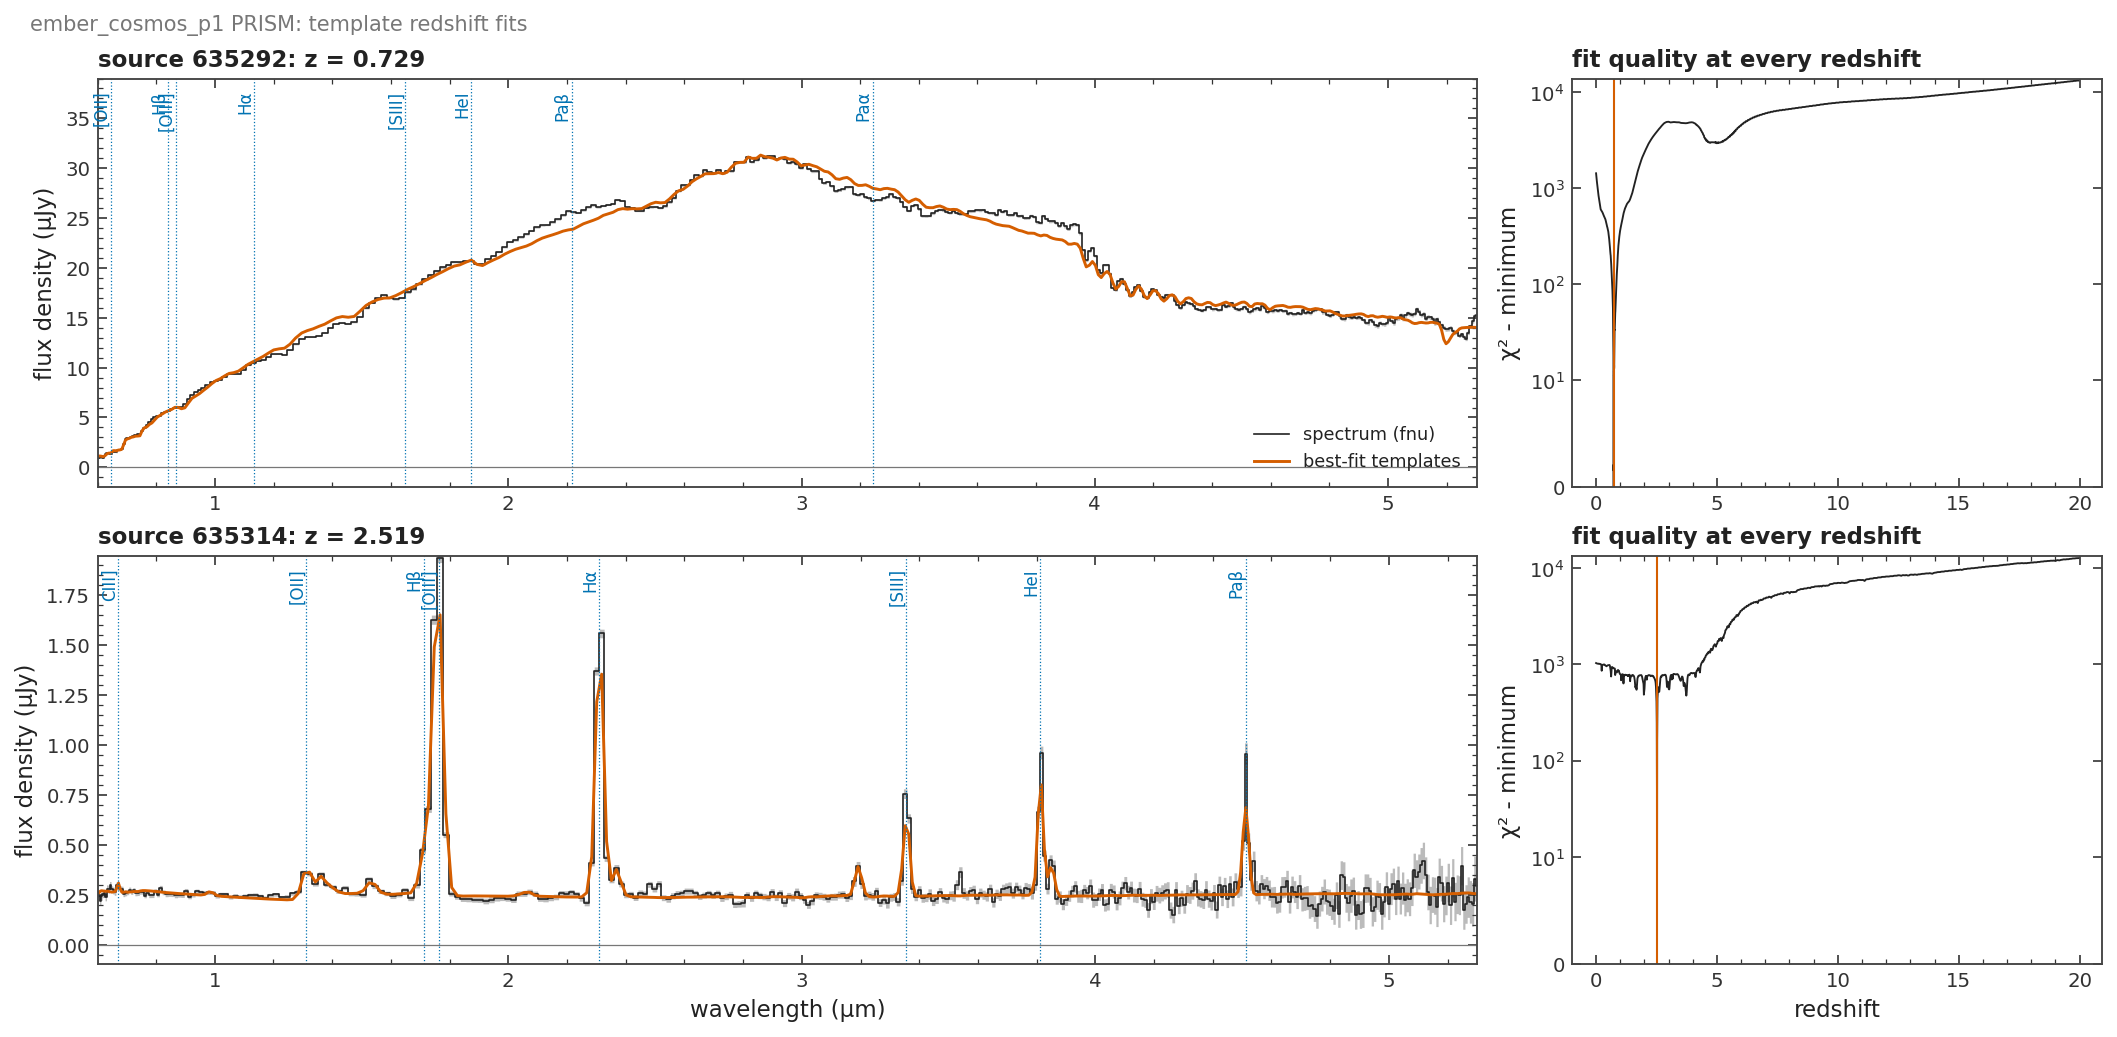
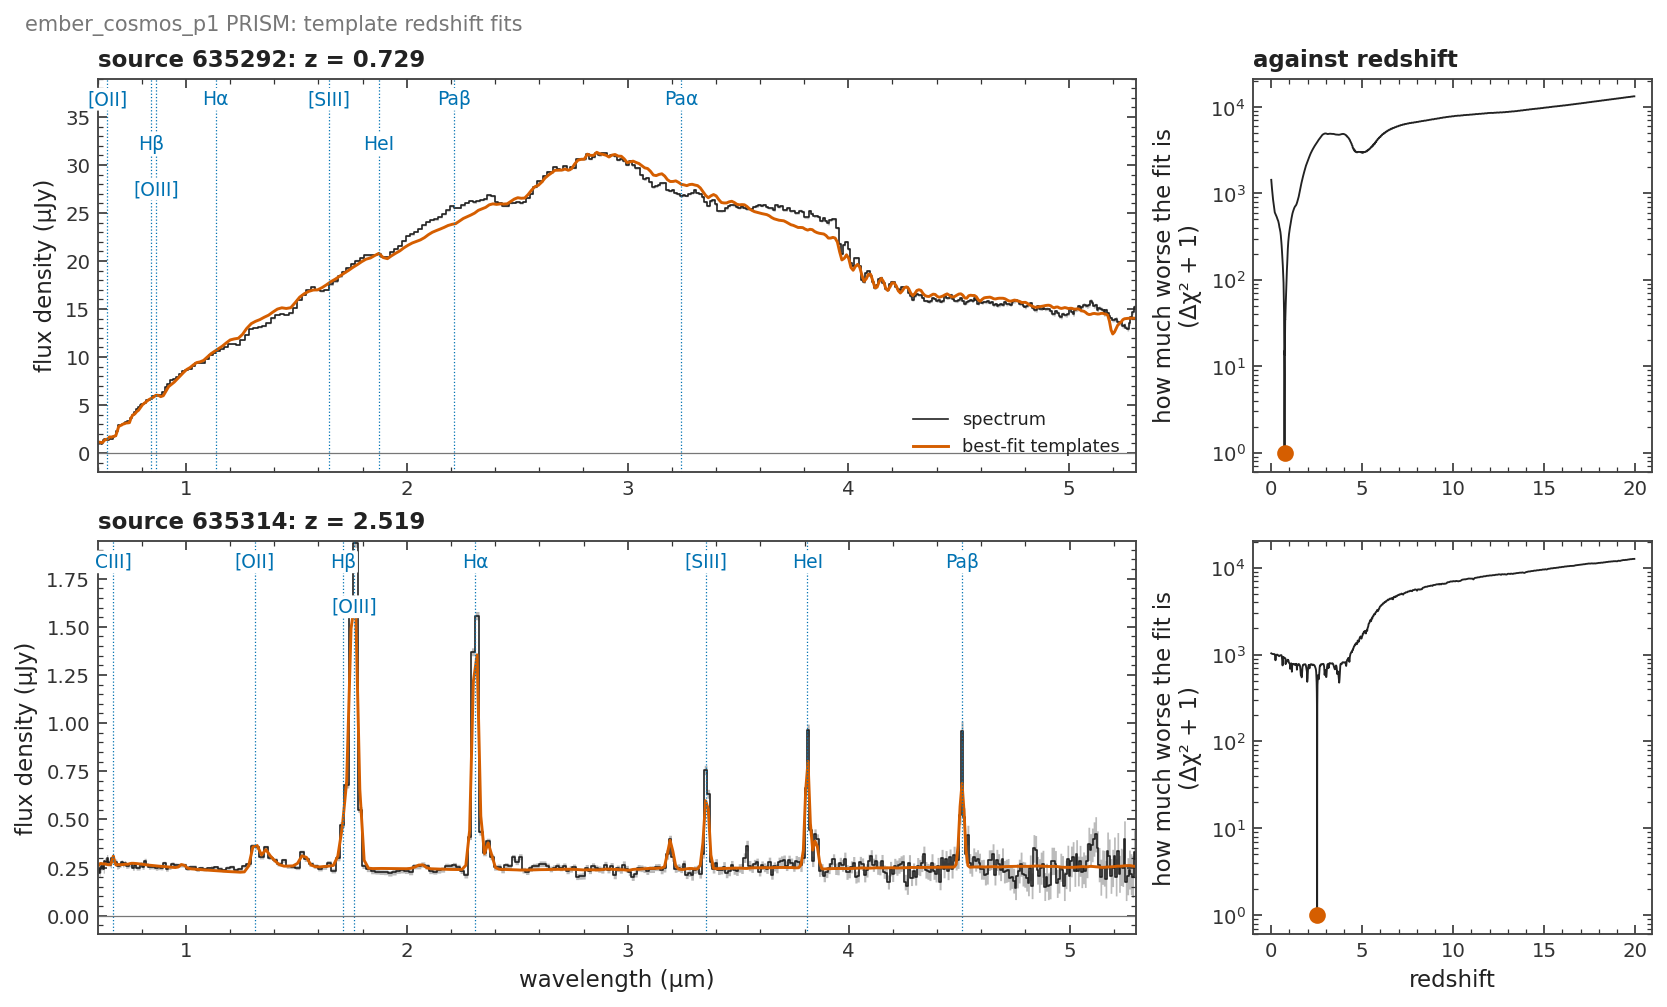
docs: redshifts page corrected after review; redshift figure readable at page width
Claude-Session: https://claude.ai/code/session_019a5zAqWZLmp6Vb2WHQdrWE

diff --git a/scripts/docs/nirspec/fig_redshift_fit.py b/scripts/docs/nirspec/fig_redshift_fit.py
@@ -28,7 +28,7 @@ LINES = {'Lyα': 1215.67, 'CIII]': 1908.7, '[OII]': 3728.5, 'Hβ': 4862.7, '[OII
 ws = C.workspace(root, args.obs)
 plt = C.style()
 n = len(args.source)
-fig = plt.figure(figsize=(14, 3.4 * n), constrained_layout=True)
+fig = plt.figure(figsize=(11, 3.3 * n), constrained_layout=True)
 gs = fig.add_gridspec(n, 2, width_ratios=[2.6, 1])
 for k, sid in enumerate(args.source):
     base = os.path.join(ws, f'{args.obs}_{args.grating}_{sid}')
@@ -42,15 +42,19 @@ for k, sid in enumerate(args.source):
     ax = fig.add_subplot(gs[k, 0])
     good = np.isfinite(fnu)
     ax.fill_between(wave, fnu - err, fnu + err, color='#bbbbbb', lw=0, step='mid')
-    ax.step(wave, fnu, where='mid', color=C.INK, lw=0.8, label='spectrum (fnu)')
+    ax.step(wave, fnu, where='mid', color=C.INK, lw=0.8, label='spectrum')
     ax.plot(mw, mf, color=C.PALETTE[5], lw=1.4, label='best-fit templates')
     top = np.nanpercentile(fnu[good], 99.5) * 1.25
     lo, hi = np.nanmin(wave[good]), np.nanmax(wave[good])
+    last, level = -1.0, 0
     for name, rest in LINES.items():
         lam = rest * (1 + z) / 1e4
         if lo < lam < hi:
+            level = level + 1 if lam - last < 0.06 * (hi - lo) else 0     # stagger labels that would touch
+            last = lam
             ax.axvline(lam, color=C.PALETTE[0], lw=0.6, ls=':')
-            ax.text(lam, top * 0.97, name, rotation=90, ha='right', va='top', fontsize=8, color=C.PALETTE[0])
+            ax.text(lam, top * (0.97 - 0.12 * (level % 3)), name, ha='center', va='top', fontsize=9,
+                    color=C.PALETTE[0], bbox=dict(boxstyle='round,pad=0.1', fc='white', ec='none'))
     ax.set_xlim(lo, hi)
     ax.set_ylim(min(-0.05 * top, np.nanpercentile(fnu[good], 0.5)), top)
     ax.axhline(0, color=C.MUTED, lw=0.6)
@@ -62,12 +66,13 @@ for k, sid in enumerate(args.source):
         ax.legend(loc='lower right', fontsize=8.5)
     ax = fig.add_subplot(gs[k, 1])
     o = np.argsort(zg)
-    ax.plot(zg[o], chi2[o] - np.nanmin(chi2), color=C.INK, lw=0.9)
-    ax.axvline(z, color=C.PALETTE[5], lw=1.0)
-    ax.set_yscale('symlog', linthresh=10)
-    ax.set_ylim(0, None)
-    ax.set_ylabel('χ² - minimum')
-    ax.set_title('fit quality at every redshift', loc='left', fontsize=11)
+    ax.plot(zg[o], chi2[o] - np.nanmin(chi2) + 1, color=C.INK, lw=0.9)
+    ax.plot([z], [1], 'o', color=C.PALETTE[5], ms=7, zorder=5)
+    ax.set_yscale('log')
+    ax.set_ylim(0.6, None)
+    ax.set_ylabel('how much worse the fit is\n(Δχ² + 1)')
+    if k == 0:
+        ax.set_title('against redshift', loc='left', fontsize=11)
     if k == n - 1:
         ax.set_xlabel('redshift')
 fig.suptitle(f'{args.obs} {args.grating.split("_")[0].upper()}: template redshift fits', x=0.01, ha='left',

diff --git a/web/lib/docs/content/reduction/nirspec/redshifts.md b/web/lib/docs/content/reduction/nirspec/redshifts.md
@@ -1,31 +1,33 @@
 # Redshifts and lines
 
-Every spectrum gets an automatic redshift from a template fit. Those redshifts are then [inspected by eye](/docs/inspection), and emission lines are measured only at the inspected redshift, so the catalog never carries line fluxes measured at a wrong redshift.
+Every spectrum gets an automatic redshift from a template fit. Those redshifts are then [inspected by eye](/docs/inspection), and emission lines are measured only at the inspected redshift, so no line flux is measured at a redshift nobody has checked.
 
 ## Template redshifts
 
 At every redshift on a grid, the spectrum is fitted as a sum of templates, each with a coefficient that cannot be negative. The redshift where the fit is best is the pipeline's redshift.
 
-![Two PRISM spectra (black, with their errors in gray) and the best-fit template combination (orange), with the main emission lines marked at the fitted redshift. Right: how much worse the fit is at every other redshift. The first source's redshift is fixed by the shape of its continuum, the second's by its emission lines.](/docs/nirspec/redshift_fit.png)
+![Two PRISM spectra (black, with their errors in gray) and the best-fit template combination (orange), with the main emission lines marked at the fitted redshift. Right: how much worse the fit is at every other redshift; the dot marks the best one. The first source's redshift is set by the shape of its continuum, the second's by its emission lines.](/docs/nirspec/redshift_fit.png)
 
 The templates:
 
 | Kind | What they describe |
 |---|---|
-| 16 stellar populations | Galaxies of a range of ages, star-formation histories, metallicities and dust (made with `bagpipes`). Metallicity falls and dust changes with redshift, following the average galaxy at each epoch |
-| Emission lines | 20 lines and line groups from Lyα to Paα. Lines whose ratios are fixed by physics are tied together (for example the [OIII] doublet, or Hβ with Hα) |
-| Broad lines | Hα and Hβ at widths of 1,500 and 3,000 km/s, for broad-line active galaxies |
+| 16 stellar populations | Galaxies of a range of ages, star-formation histories, metallicities and dust (made with `bagpipes`). They are rebuilt for each range of redshift: ages are fractions of the age of the Universe at that redshift, metallicity falls toward high redshift, and dust is strongest near z ≈ 3 |
+| Emission lines | 21 lines and line groups from Lyα to Paα. Doublets with a fixed atomic ratio ([OIII], [NII], [SIII]) and the Balmer and Paschen lines at their recombination ratios are tied together |
+| Broad lines | Hα and Hβ with a FWHM of 1,500 and 3,000 km/s, for broad-line active galaxies |
 | Blackbodies | 500, 2,500 and 5,000 K, and a modified blackbody, for featureless or dust-dominated sources |
 
-The fit runs in two passes: a coarse grid over the whole redshift range (steps of 500 km/s for the PRISM, 100 km/s for the medium-resolution gratings), then a fine grid within 3,000 km/s of the best coarse redshift (30 km/s for the PRISM, 10 km/s for the M gratings, 5 km/s for the H gratings). The templates are blurred to each disperser's resolution, and absorption by the intergalactic medium is applied at each redshift.
+The fit runs in two passes. The first covers 0 < z < 20 (PRISM) or 0 < z < 15 (gratings) in steps of 500 km/s for the PRISM, 100 km/s for the M gratings and 30 km/s for the H gratings. The second refines within 3,000 km/s of the best redshift, in steps of 30 km/s (PRISM), 10 km/s (M gratings) or 5 km/s (H gratings). The templates are blurred to each disperser's resolution, taken as the nominal resolution curve times 1.3 for the PRISM and 1.5 for the gratings, and absorbed by the intergalactic medium at each redshift. Before the fit, errors smaller than 10 % of the flux are raised to 10 %, so that a few bright pixels cannot decide the redshift on their own.
 
-The redshift file (`<spectrum>_zfit.fits`) holds the best redshift (`ZBEST`), the best-fit model and the fit quality at every redshift. A confidence (`ZCONF`) measures how much of the fit's probability lies within 0.03 of the best redshift: low when two redshifts fit about equally well. The automatic redshift is a starting point; every redshift is inspected before it is used.
+The redshift file (`<spectrum>_zfit.fits`) holds the best redshift (`ZBEST`), the best-fit model and the fit at every redshift. A confidence (`ZCONF`, a percentage) measures how much of the fit's probability lies within 0.03 of the best redshift: low when two redshifts fit about equally well.
+
+When an object has spectra in several dispersers, the automatic redshift the inspector starts from combines them: the PRISM sets it, and a grating's redshift close to it refines it. The automatic redshift is only a starting point: every redshift is inspected before it is used, and the catalog's redshift is the inspected one.
 
 The fit uses `fnu`, which by default includes the light of other sources whose spectra overlap this one (see [Overlapping spectra](/docs/reduction/nirspec/extraction#overlapping-spectra)). On the gratings, a spectrum dominated by a neighbor's light can give the neighbor's redshift; the inspection is where this is caught.
 
 ## Emission lines
 
-Line fluxes are measured after inspection, at the inspected redshift, for spectra whose redshift quality is "probable" or better.
+Line fluxes are measured after inspection, at the inspected redshift, for the spectra of objects whose redshift quality is "probable" or better (`min_quality = 3`).
 
 ```bash
 campfire pull --obs <observation>           # the inspected redshifts, into reference/nirspec/<observation>/redshifts.toml
@@ -34,12 +36,19 @@ cfpipe nirspec linefit --obs <observation>  # fit the lines at those redshifts
 
 How the lines are fitted:
 
-1. **Where to look.** Every line in the line list that falls in the spectrum's wavelength range gets a window around its expected position. Lines whose windows overlap are fitted together.
-2. **The model.** In each window: a Gaussian per line, blurred by the disperser's resolution, on a low-order polynomial continuum. Doublets with a fixed ratio are tied.
-3. **Line widths and velocities.** First every group of lines is fitted with its own velocity and width. The strongly detected lines then set one velocity and width for the whole spectrum, and the faint lines are refitted with them held fixed.
-4. **Lines that cannot be separated.** Lines closer than the resolution are fitted as one, reported under the stronger line and flagged.
+1. **Where to look.** Each of the 43 lines in the line list that falls in the spectrum's wavelength range gets a window around its expected position. Lines whose windows overlap are fitted together.
+2. **The model.** In each window: a Gaussian per line, blurred by the disperser's resolution, on a straight-line local continuum. Doublets with a fixed ratio are tied.
+3. **Line widths and velocities.** First every group of lines is fitted with its own velocity and width. The lines detected at a signal-to-noise of 5 or more then set one velocity and width for the whole spectrum, and the other lines are refitted with them held fixed. The velocity may shift by at most 1,000 km/s from the inspected redshift (2,500 km/s for the PRISM), and the width ranges from 10 to 600 km/s. With no strong line, the width is held at 100 km/s.
+4. **Lines that cannot be separated.** Lines closer than about twice their width are fitted as one, reported under the stronger line and flagged.
 5. **Doublets with a free ratio** ([OII], CIII], [SII] and others) are also reported as a total. Near the resolution limit the two components trade flux with each other, but their sum is well measured, and it means the same thing in every disperser; use it for selections.
+6. **Broad lines.** On the gratings, a second, broad Gaussian is tried on the permitted lines (Hα, Hβ, Paα, Paβ, MgII, CIV and others) and kept when it improves the fit clearly and is itself detected. It is reported as its own row (for example `Halpha_broad`).
 
-Fluxes may be negative: a line that is not detected carries an honest flux and error, from which a limit can be formed. The errors come from the fit itself. Results are written per spectrum as `<spectrum>_lines.fits`, with the redshift used, its quality and source, and a hash of the spectrum, so a line fit is redone only when the redshift, its quality or the spectrum changes.
+Each line has a flux (erg s⁻¹ cm⁻²) and a rest-frame equivalent width. Fluxes may be negative: a line that is not detected carries an honest flux and error, from which a limit can be formed. The errors come from the fit itself. Results are written per spectrum as `<spectrum>_lines.fits`, with the redshift used, its quality and source, and a hash of the spectrum, so a line fit is redone only when the redshift, its quality, the spectrum or the fitter changes.
 
 Like the redshift fit, the line fit uses `fnu`, with other sources' light included by default.
+
+## Which redshift to cite
+
+Cite the inspected redshift and its quality, from the portal or the catalog (`Campfire.query_objects()` in the Python client). `ZBEST` in the redshift file is the automatic fit of one spectrum; the redshift in the line-fit file is the inspected one plus the velocity the line fit measured.
+
+> Redshifts were measured by fitting each spectrum with a non-negative combination of stellar-population, emission-line and blackbody templates, and every redshift was inspected visually; we use the inspected redshifts of quality probable or better. Emission-line fluxes were measured at the inspected redshift with Gaussian fits on a local linear continuum, with one velocity and width per spectrum set by the strongly detected lines; close doublets are reported as totals.
